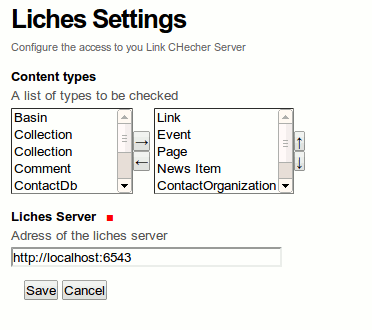
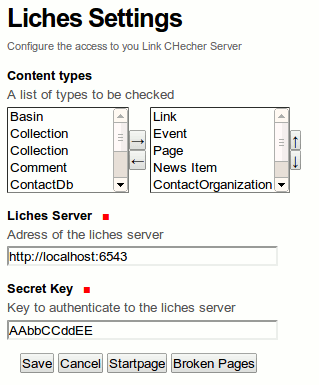
prepare release 0.2

Changed region(s): [[0.0, 0.0, 0.9592, 0.9697]]

diff --git a/collective/liches/interfaces.py b/collective/liches/interfaces.py
@@ -27,6 +27,6 @@ class ILichesSettingsSchema(interface.Interface):
 
     secret_key = schema.TextLine(
         title = _(u'Secret Key'),
-        description = _(u'Key to authegit add nticate to the liches server'),
+        description = _(u'Key to authenticate to the liches server'),
         required = True,
     )

diff --git a/README.rst b/README.rst
@@ -2,7 +2,7 @@ Introduction
 ============
 Keeping the links in your site up to date is hard and unappreciated work.
 Content editors need all the help and incentive they can get to do
-this job. liches_ tries to make this task a bit easier.
+this job. Liches_ tries to make this task a bit easier.
 
 
 Installation
@@ -11,9 +11,9 @@ Installation
 Liches
 -------
 
-You have to install a liches_ linkchecker server for this product to work.
-please follow the liches_ installation instructions and make sure your
-liches_ server works before installing the plone product.
+You have to install a Liches_ linkchecker server for this product to work.
+please follow the Liches_ installation instructions and make sure your
+Liches_ server works before installing the plone product.
 
 
 Plone
@@ -50,9 +50,10 @@ section.
 Usage
 ======
 
-Configure the access to your liches Linkchecker serser and which content
+Configure the access to your Liches_ Linkchecker server and which content
 types will be displayed on your link checker start page in the plone
-control panel:
+control panel. The 'Secrect Key' is you Liches_ API Key and used to
+update existing pages in the Liches server
 
 .. image:: https://raw.github.com/collective/collective.liches/master/docs/liches-settings.png
 
@@ -65,15 +66,24 @@ Append `@@linkchecker-startpage.html` to your siteroot to view this page.
 
 .. image:: https://raw.github.com/collective/collective.liches/master/docs/linkchecker-startpage.png
 
+The Liches portlet gives an overview how many pages with broken links
+are present in the site or the current path.
+
+.. image:: https://raw.github.com/collective/collective.liches/master/docs/liches-portlet.png
+
+The links in the portlet take you to a page which gives you an overview
+of the pages with broken links in the site or current path. Alternatively
 append `@@linkchecker-brokenpages.html` to your site root or to any
-folder(ish object) in your site. This will show you a view with links
-to all pages with broken links in this path.
+folder(ish object) in your site.
 
 .. image:: https://raw.github.com/collective/collective.liches/master/docs/broken-pages-in-site.png
 
 All pages will show you (as long as you are able to edit it) which links
 are broken. At the top you see a summary of the links and the result
 of the linkcheck. Broken Links are highlighted and underlined in red.
+After you corrected the links you may want to recheck the links in this
+page. Press the 'Check Links' Button and wait for a few minutes for the
+linkchecker_ to finish.
 
 .. image:: https://raw.github.com/collective/collective.liches/master/docs/broken-links-in-page.png
 
@@ -98,7 +108,7 @@ Why yet another solution?
   to your needs e.g. to check the validity of HTLM and CSS.
 
 .. _linkchecker: http://wummel.github.io/linkchecker/
-.. _liches: https://github.com/cleder/liches
+.. _Liches: https://github.com/cleder/liches
 .. _gocept.lms: https://pypi.python.org/pypi/gocept.lms/
 .. _gocept.linkchecker: https://pypi.python.org/pypi/gocept.linkchecker/
 .. _collective.linkcheck: https://pypi.python.org/pypi/collective.linkcheck/
